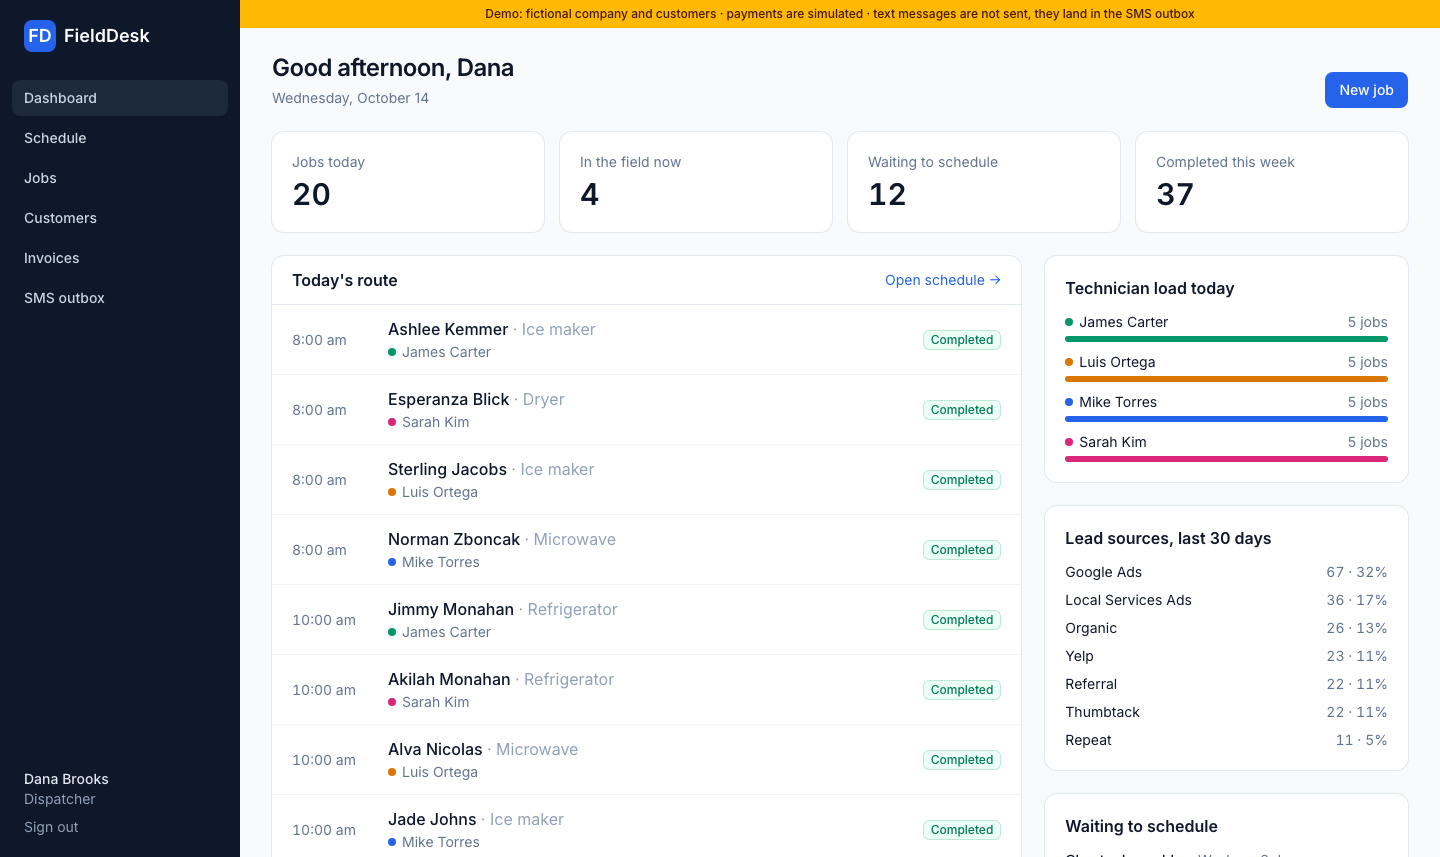
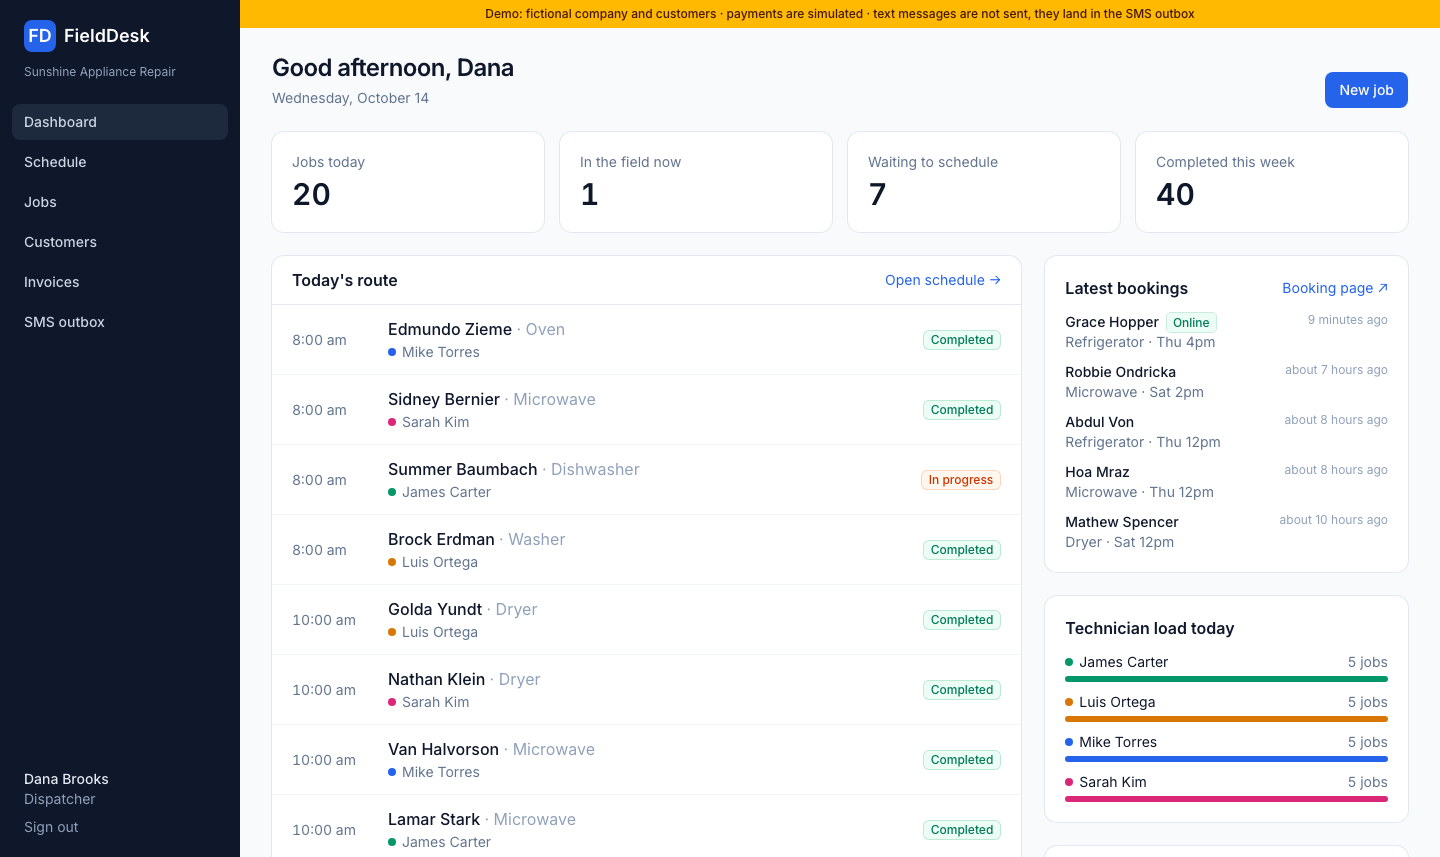
Document tenancy, booking and live scheduling

diff --git a/README.md b/README.md
@@ -6,7 +6,7 @@ Dispatch and job management for small field-service companies — appliance repa
 
 Built with Rails 8, Hotwire and PostgreSQL. No React, no Redis, no external auth service.
 
-**Live demo: https://web-production-6fd1a.up.railway.app** — sign in as `dispatch@fielddesk.demo` / `demo-password` (more accounts below). The demo sleeps when idle, so the first page can take a few seconds.
+**Live demo: https://web-production-6fd1a.up.railway.app** — sign in as `dispatch@fielddesk.demo` / `demo-password` (more accounts below), or **create your own sandbox company** from the sign-in page. The demo sleeps when idle, so the first page can take a few seconds.
 
 ![Dashboard](docs/screenshots/dashboard.png)
 
@@ -28,9 +28,20 @@ What I practiced along the way:
 
 ## What it does
 
+**Many companies, one app**
+- Every company is an isolated account: its own team, customers, jobs, invoices, texts and audit log
+- Anyone can sign up a sandbox company; sample data loads in the background and the dashboard fills in live
+- Company settings: name, phone, sales tax, payment terms, review link, online booking on/off
+
+**Online booking for customers**
+- A public page per company (`/book/sunshine-appliance-repair`) with two-hour arrival windows for the next six days
+- A window is open only when a technician is free; the job goes to the least busy one that day
+- Returning customers are recognized by phone; the customer gets a confirmation text; the dispatcher sees the booking appear without reloading
+
 **For the office (admin, dispatcher)**
 - Dashboard: today's route, who is in the field right now, jobs waiting to be scheduled, technician load, lead sources for the last 30 days
-- Schedule board: one column per technician, jobs placed on a time grid
+- Schedule board: one column per technician. Drag a job to another technician or time, or drag a waiting job onto the board. Drops snap to 15 minutes; double-booking is refused
+- Live updates: any change to a job refreshes every open schedule and dashboard in that company (Turbo 8 morphing over Action Cable)
 - Customers with several service addresses, gate codes and access notes, and full job history
 - Jobs with a status workflow: `unscheduled → scheduled → en route → in progress → completed`, plus cancel with a required reason
 - Search customers by name, by a phone number in any format, or by email
@@ -55,6 +66,10 @@ What I practiced along the way:
 **For the admin**
 - Team management: add people, set roles and calendar colors, reset passwords, deactivate (never delete, so history keeps its authors)
 - Audit log of every sign-in, failed sign-in, denied access and data change, with who, when, what changed and from which IP
+
+| Online booking | Booking confirmed | Sandbox sign-up | Sample data loading live |
+|---|---|---|---|
+| ![Booking](docs/screenshots/booking.png) | ![Confirmed](docs/screenshots/booking-confirmed.png) | ![Sign-up](docs/screenshots/signup.png) | ![Loading](docs/screenshots/sandbox-loading.png) |
 
 | Schedule | Job | Audit log |
 |---|---|---|
@@ -90,6 +105,8 @@ Everything around the provider is the same code in both modes: invoice math, pay
 | Customer PII | Phone and email are encrypted at rest with Active Record Encryption. Deterministic mode keeps exact-match search working. Production refuses to boot without real keys. |
 | Logs | Phone, email, password and token params are filtered from request logs. The audit log writes `[FILTERED]` for encrypted columns and password digests, so it never becomes a second copy of PII. |
 | Payment links | 24+ character random token per invoice; draft invoices are not reachable; payment endpoints are rate-limited; gateway charges are recorded once even if a webhook is delivered twice. |
+| Tenant isolation | `acts_as_tenant` scopes every query to the current account and checks that associations stay inside it. A query with no account set raises instead of returning everyone's rows. Sign-in, password reset, payment links and webhooks cross accounts only inside explicit `without_tenant` blocks. Covered by isolation tests. |
+| Public forms | Booking and sign-up are rate-limited; the booking form has a honeypot field. |
 | Authorization | Pundit policies on every action, enforced by `verify_authorized`. Policy scopes keep technicians inside their own jobs. Denied attempts land in the audit log. |
 | Static analysis | Brakeman and bundler-audit run in CI. |
 
@@ -98,6 +115,8 @@ Everything around the provider is the same code in both modes: invoice math, pay
 - **State machine without a gem.** `Job::TRANSITIONS` is a plain hash; `Job#allowed_transitions_for(user)` combines it with the role, so the buttons in the UI and the server-side check come from the same rule.
 - **Auditing as a concern.** `Auditable` hooks into `after_*_commit`, so a rolled-back transaction never leaves a phantom log entry. The acting user and IP come from `Current`.
 - **Job numbers from a Postgres sequence** (`J-10001`, …), so two dispatchers booking in the same second never collide. That's why the schema lives in `db/structure.sql`.
+- **Tenancy with a safety net.** `require_tenant` is on, so forgetting to set the account is a crash in tests, not a data leak in production. Turbo streams are named per account, so one company's changes never ping another's screens.
+- **Availability from the schedule itself.** `BookingSlots` loads the week's jobs once and checks overlaps in Ruby; the same overlap rule (`Job.overlapping`) guards drag and drop, the job form and online booking.
 - **Providers behind small adapters.** `PaymentGateways.current` and `SmsProviders.current` pick the implementation from ENV. Real SMS can never go out while demo mode is on.
 - **Texts are records first, deliveries second.** `Messaging.notify` saves an `OutboundMessage`, then `DeliverMessageJob` sends it, so a slow provider never blocks the technician's tap, scheduled texts survive restarts, and a review request for a job canceled in the meantime is skipped.
 - **Money in integer cents**, tax rounded once per invoice.
@@ -120,8 +139,9 @@ Open http://localhost:3000 and sign in with any demo account. The password for a
 | Admin | `admin@fielddesk.demo` |
 | Dispatcher | `dispatch@fielddesk.demo` |
 | Technician | `mike@fielddesk.demo`, `sarah@…`, `james@…`, `luis@…` |
+| A second company, to see isolation | `admin.bayside@fielddesk.demo` (Bayside Appliance Pros) |
 
-The demo data is generated by Faker: a fictional repair company in the Tampa Bay area. Phone numbers use the 555-01XX range reserved for fiction. `RESEED=1 bin/rails db:seed` rebuilds it.
+The demo data is generated by Faker: two fictional repair companies in the Tampa Bay area. Phone numbers use the 555-01XX range reserved for fiction. `RESEED=1 bin/rails db:seed` rebuilds it.
 
 ## Tests
 
@@ -149,8 +169,12 @@ Generate the three encryption values with `bin/rails db:encryption:init`. Option
 
 - [x] Invoices with line items, PDF export, and payment links (simulated or Stripe Checkout)
 - [x] Customer texts: on my way, review request, invoice link, receipt (outbox or Twilio)
-- [ ] Drag-and-drop rescheduling on the schedule board (Stimulus)
-- [ ] Live status updates on the dashboard over Turbo Streams
+- [x] Drag-and-drop rescheduling on the schedule board (Stimulus)
+- [x] Live updates on the dashboard and schedule over Turbo Streams
+- [x] Multi-tenant accounts with self-serve sandbox sign-up
+- [x] Online booking with technician availability
+- [ ] REST API with per-account keys and webhooks
+- [ ] Reports: revenue by technician and lead source, average ticket
 - [ ] CSV import of customers and job history
 
 ## License
